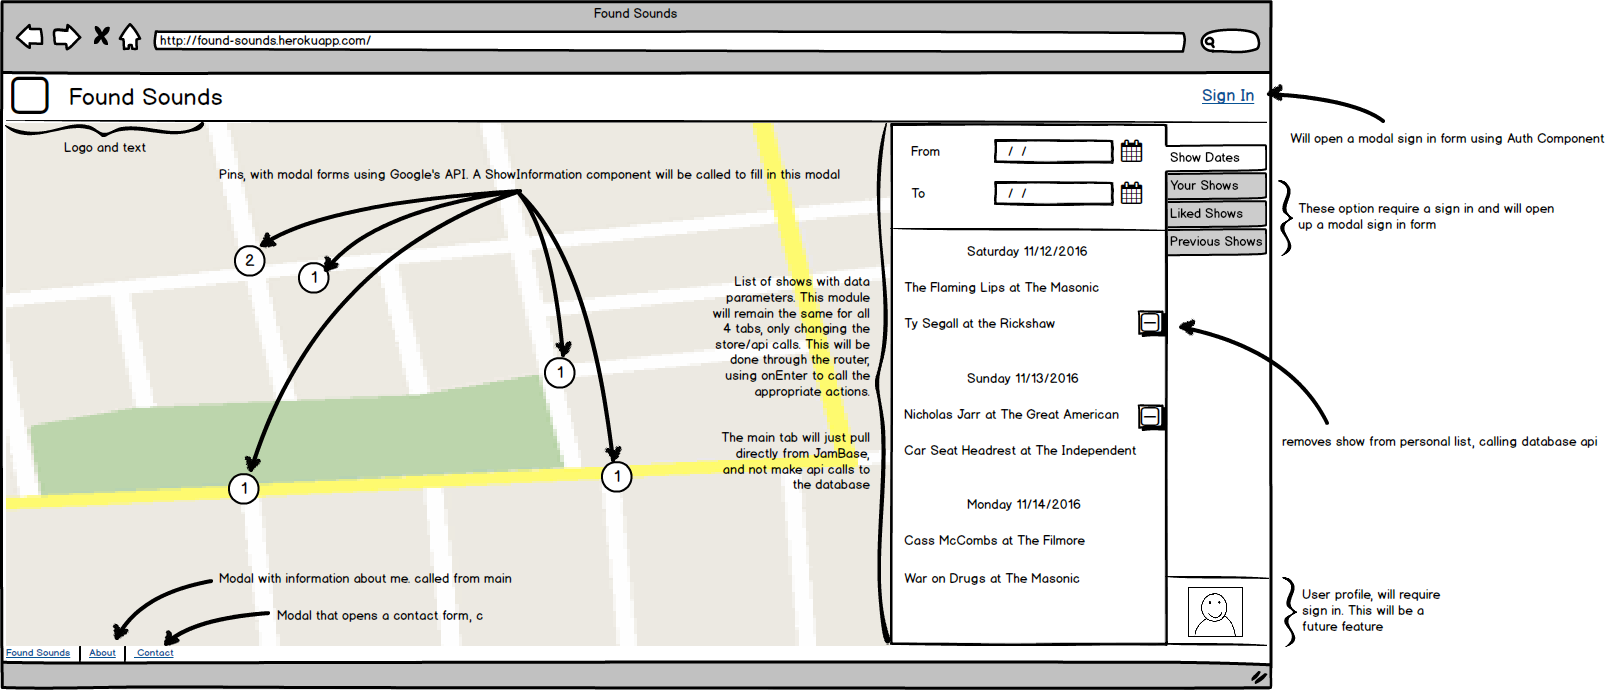
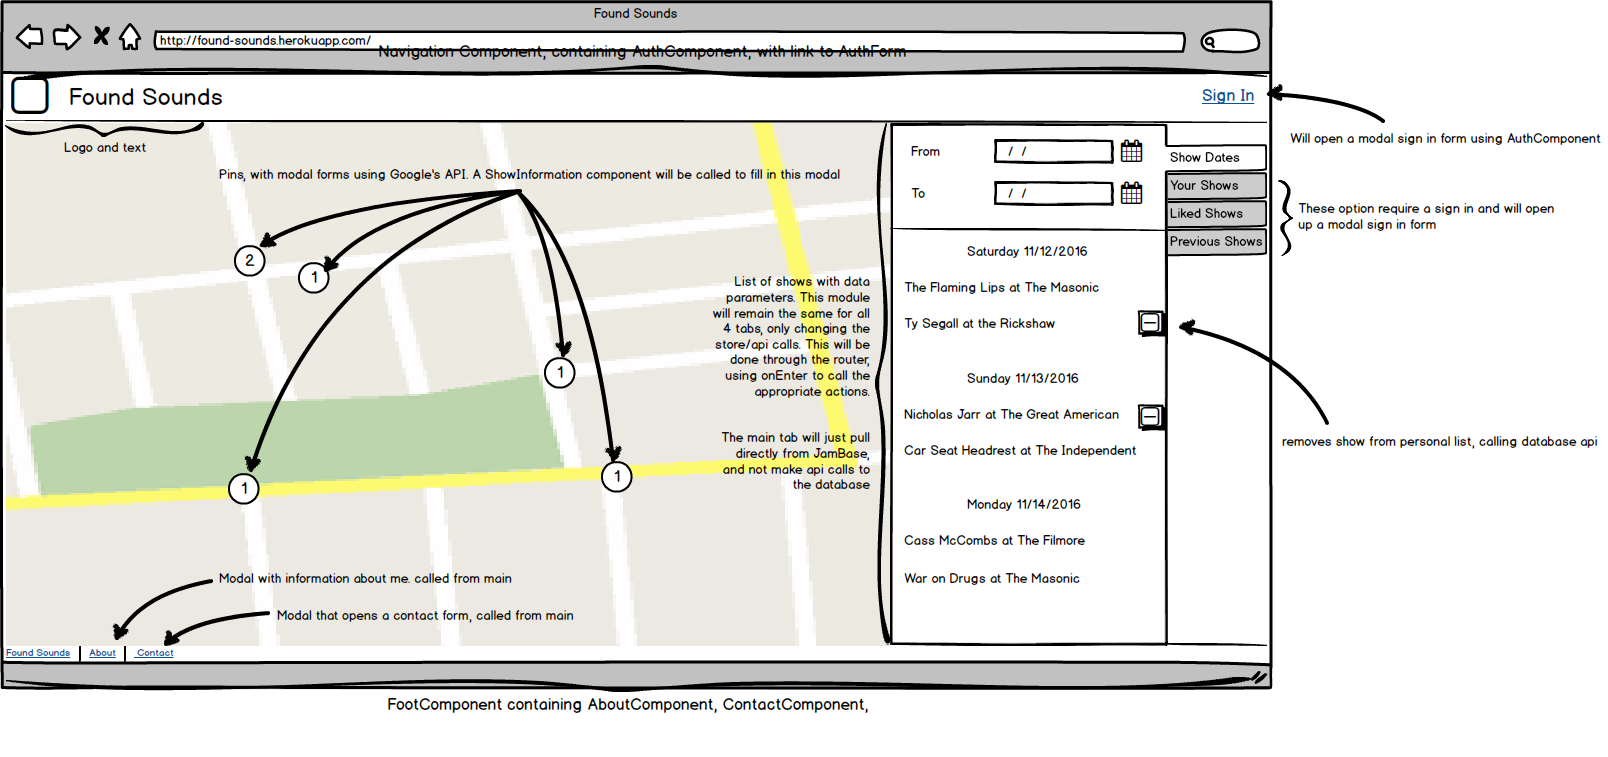
Updated wireframes with morei nformation about components. Updated sample-state to avoid additional data manipulation. Changes to stylesheet to consider mobile

diff --git a/app/assets/stylesheets/static_page.css b/app/assets/stylesheets/static_page.css
@@ -9,7 +9,7 @@ div {
 	margin-bottom: 0;
 	font-size: 3em;
 	font-family: 'Pacifico', cursive;
-	-webkit-font-smoothing: antialiased;
+	/*-webkit-font-smoothing: antialiased;*/
 }
 
 .mix-tape-parent {
@@ -25,6 +25,8 @@ div {
 	bottom: 242px;
 	color: #333333;
 	font-family: 'Patrick Hand SC', cursive;
-	-webkit-font-smoothing: antialiased
+	/*-webkit-font-smoothing: antialiased*/
 }
+
+@media only screen and (-webkit-min-device-pixel-ratio: 1.25), only screen and ( min-device-pixel-ratio: 1.25), only screen and ( min-resolution: 200dpi), only screen and ( min-resolution: 1.25dppx) {     -webkit-font-smoothing: subpixel-antialiased; }
 

diff --git a/docs/sample-state.md b/docs/sample-state.md
@@ -1,3 +1,87 @@
+Updated sample state per Gage's lecture
+```js
+{
+	currentUser: {
+		id: 1,
+		username: "Alex Manning"
+	},
+	forms: {
+		signUp: { errors: []},
+		logIn: {errors: []},
+		contact: {errors: []}
+	},
+	ShowsByDate: {
+		"11/11/2016": {
+			Shows: {
+				1: {
+							showId: 1
+							venueName: "Great American",
+							venueAddress: "1119 Geary Street, San Francisco, CA"
+							bands: ["War on Drugs", "The National", "Eternal Summers"],
+							attending: 1
+						},
+				21: {
+							showId: 21
+							venueName: "The Independent",
+							venueAddress: "241 Fell Street, San Francisco, CA"
+							bands: ["Mitsky", "Jay Som"],
+							attending: null
+					}		
+			}
+		},
+		"11/12/2016": {
+			Shows: {
+				6: {
+							showId: 6
+							venueName: "Great American",
+							venueAddress: "1119 Geary Street, San Francisco, CA"
+							bands: ["Cass McCombs", "Quilt"],
+							attending: 2
+						},
+				233: {
+							showId: 233
+							venueName: "Elbow Room",
+							venueAddress: "1489 Mission Street, San Francisco, CA"
+							bands: ["Coo Coo Birds", "Vilets"]
+							attending: null
+					}		
+			}
+		}
+	},
+	ShowsByVenue: {
+		12: {
+			venueName: "Great American",
+			venueAddress: "1119 Geary Street, San Francisco, CA"
+			shows: {
+				1: {
+					showId: 1,
+					date: 11/11/2016,
+					artists: [{ artistId: 44, artistName: "War on Drugs"},{ artistId: 47, artistName: "The National"}, ...],
+					attending: 1
+					showTicketsUrl: "www.ticketfly.com/...."
+				},
+				6: {
+					showId: 16
+					date: 11/12/2016,
+					artists: [{ artistId: 12, artistName: "Cass McCombs"},{ artistId: 38, artistName: "Quilt"}],
+					attending: 2,
+					showTicketsUrl: "www.ticketfly.com/...."
+				}
+			}
+		},
+		5: {
+			venueName: "Elbo Room",
+			venueAddress: ....,
+			shows {
+
+			}
+		}
+	}
+}
+```
+
+
+
 ```js
 {
 	currentUser: {
@@ -38,3 +122,4 @@
  		}
  	}
 }
+```
